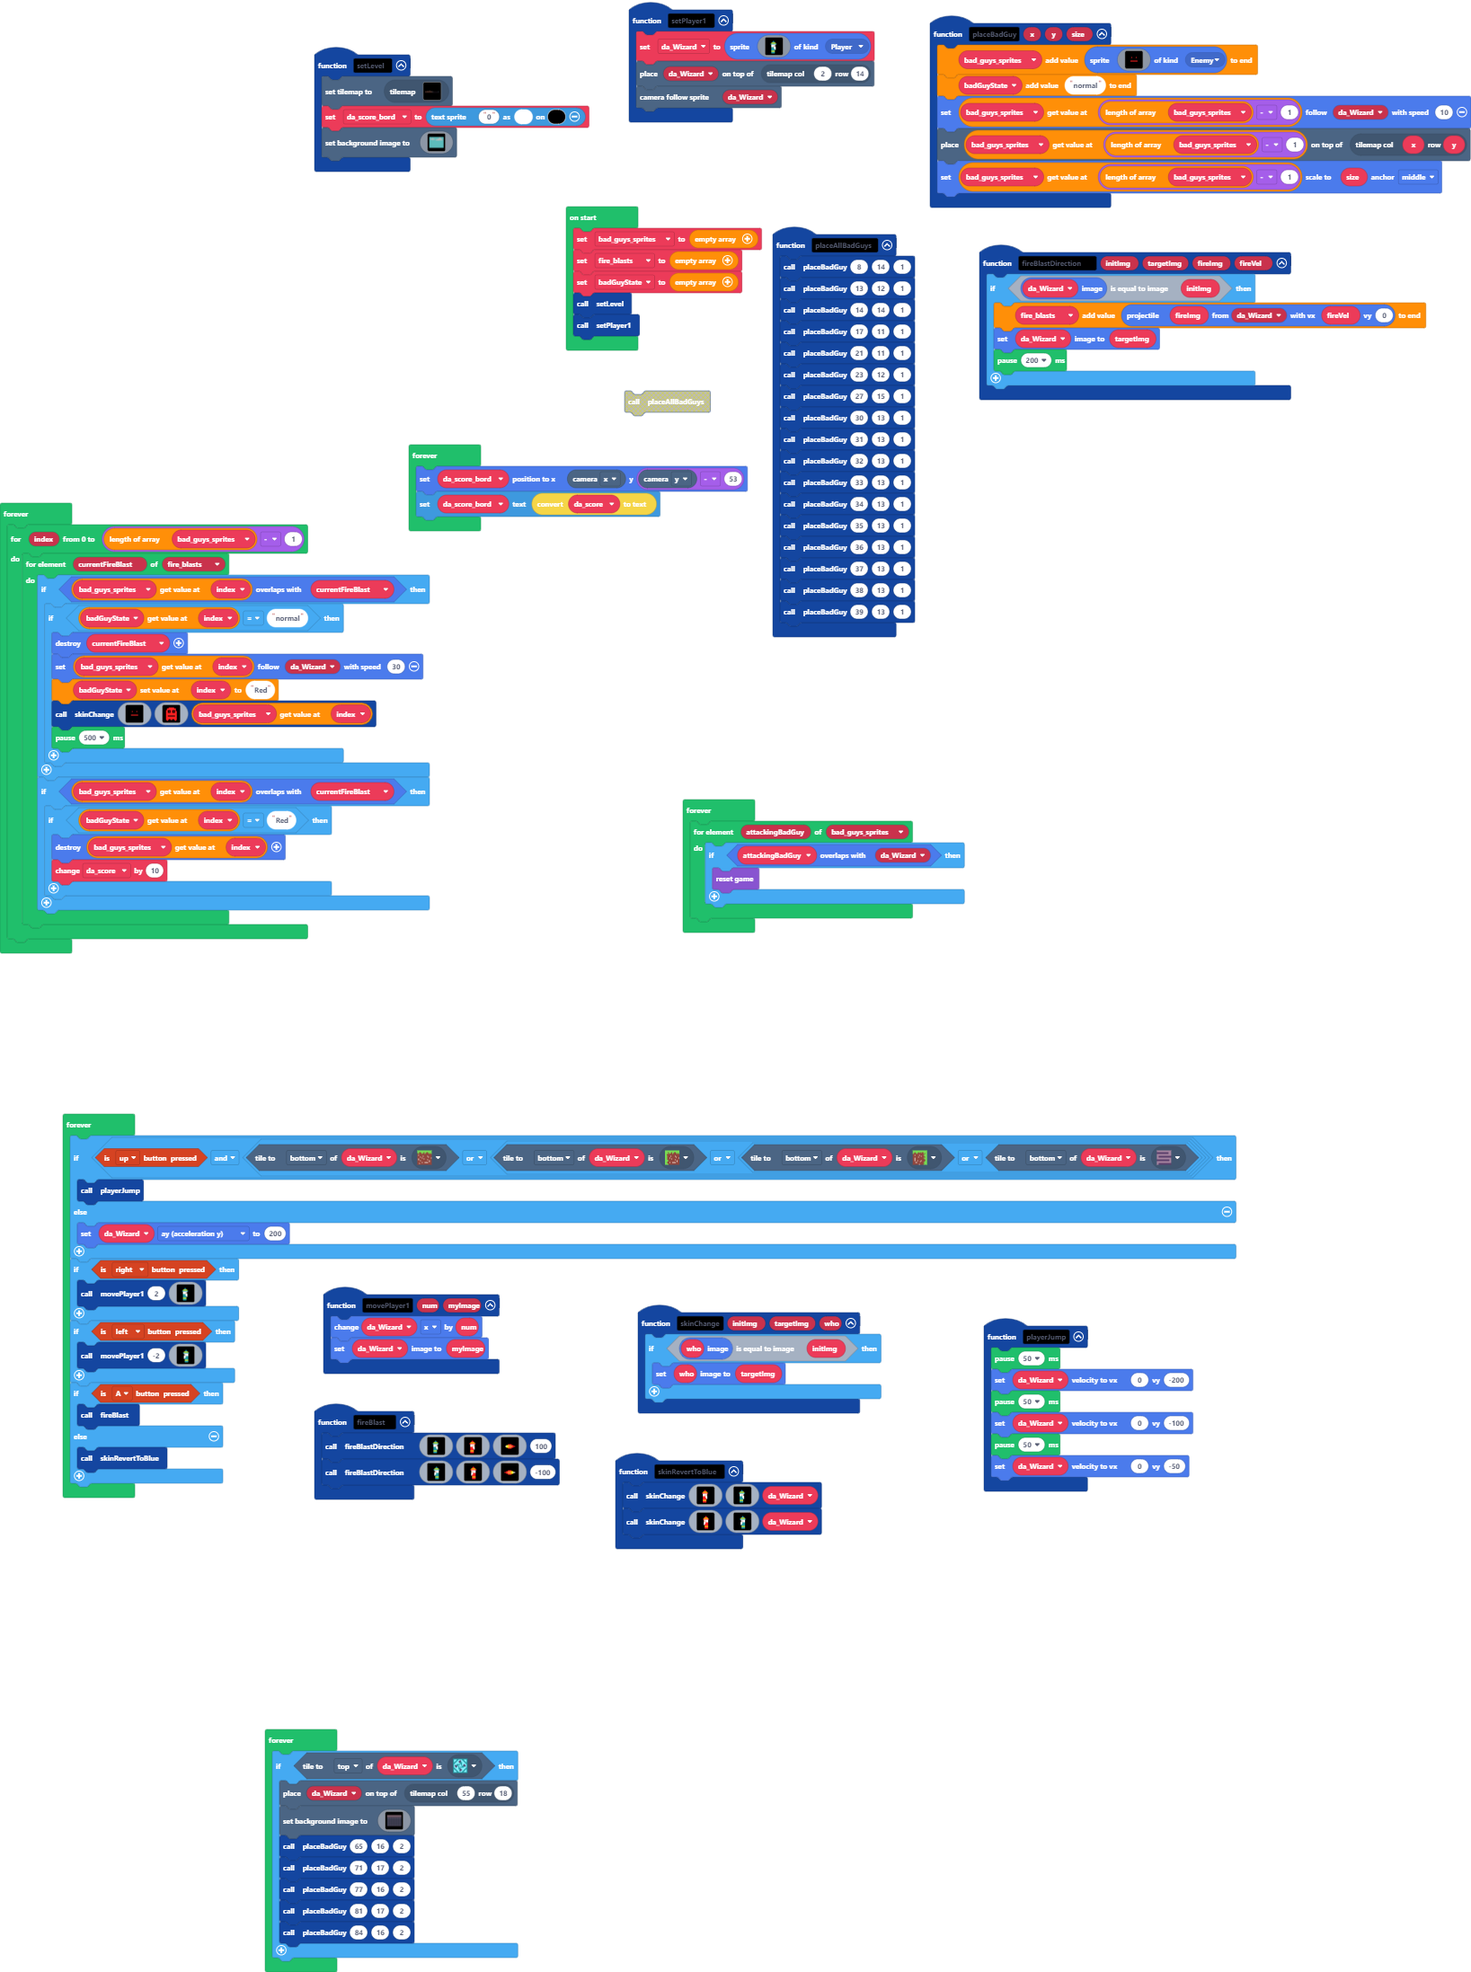
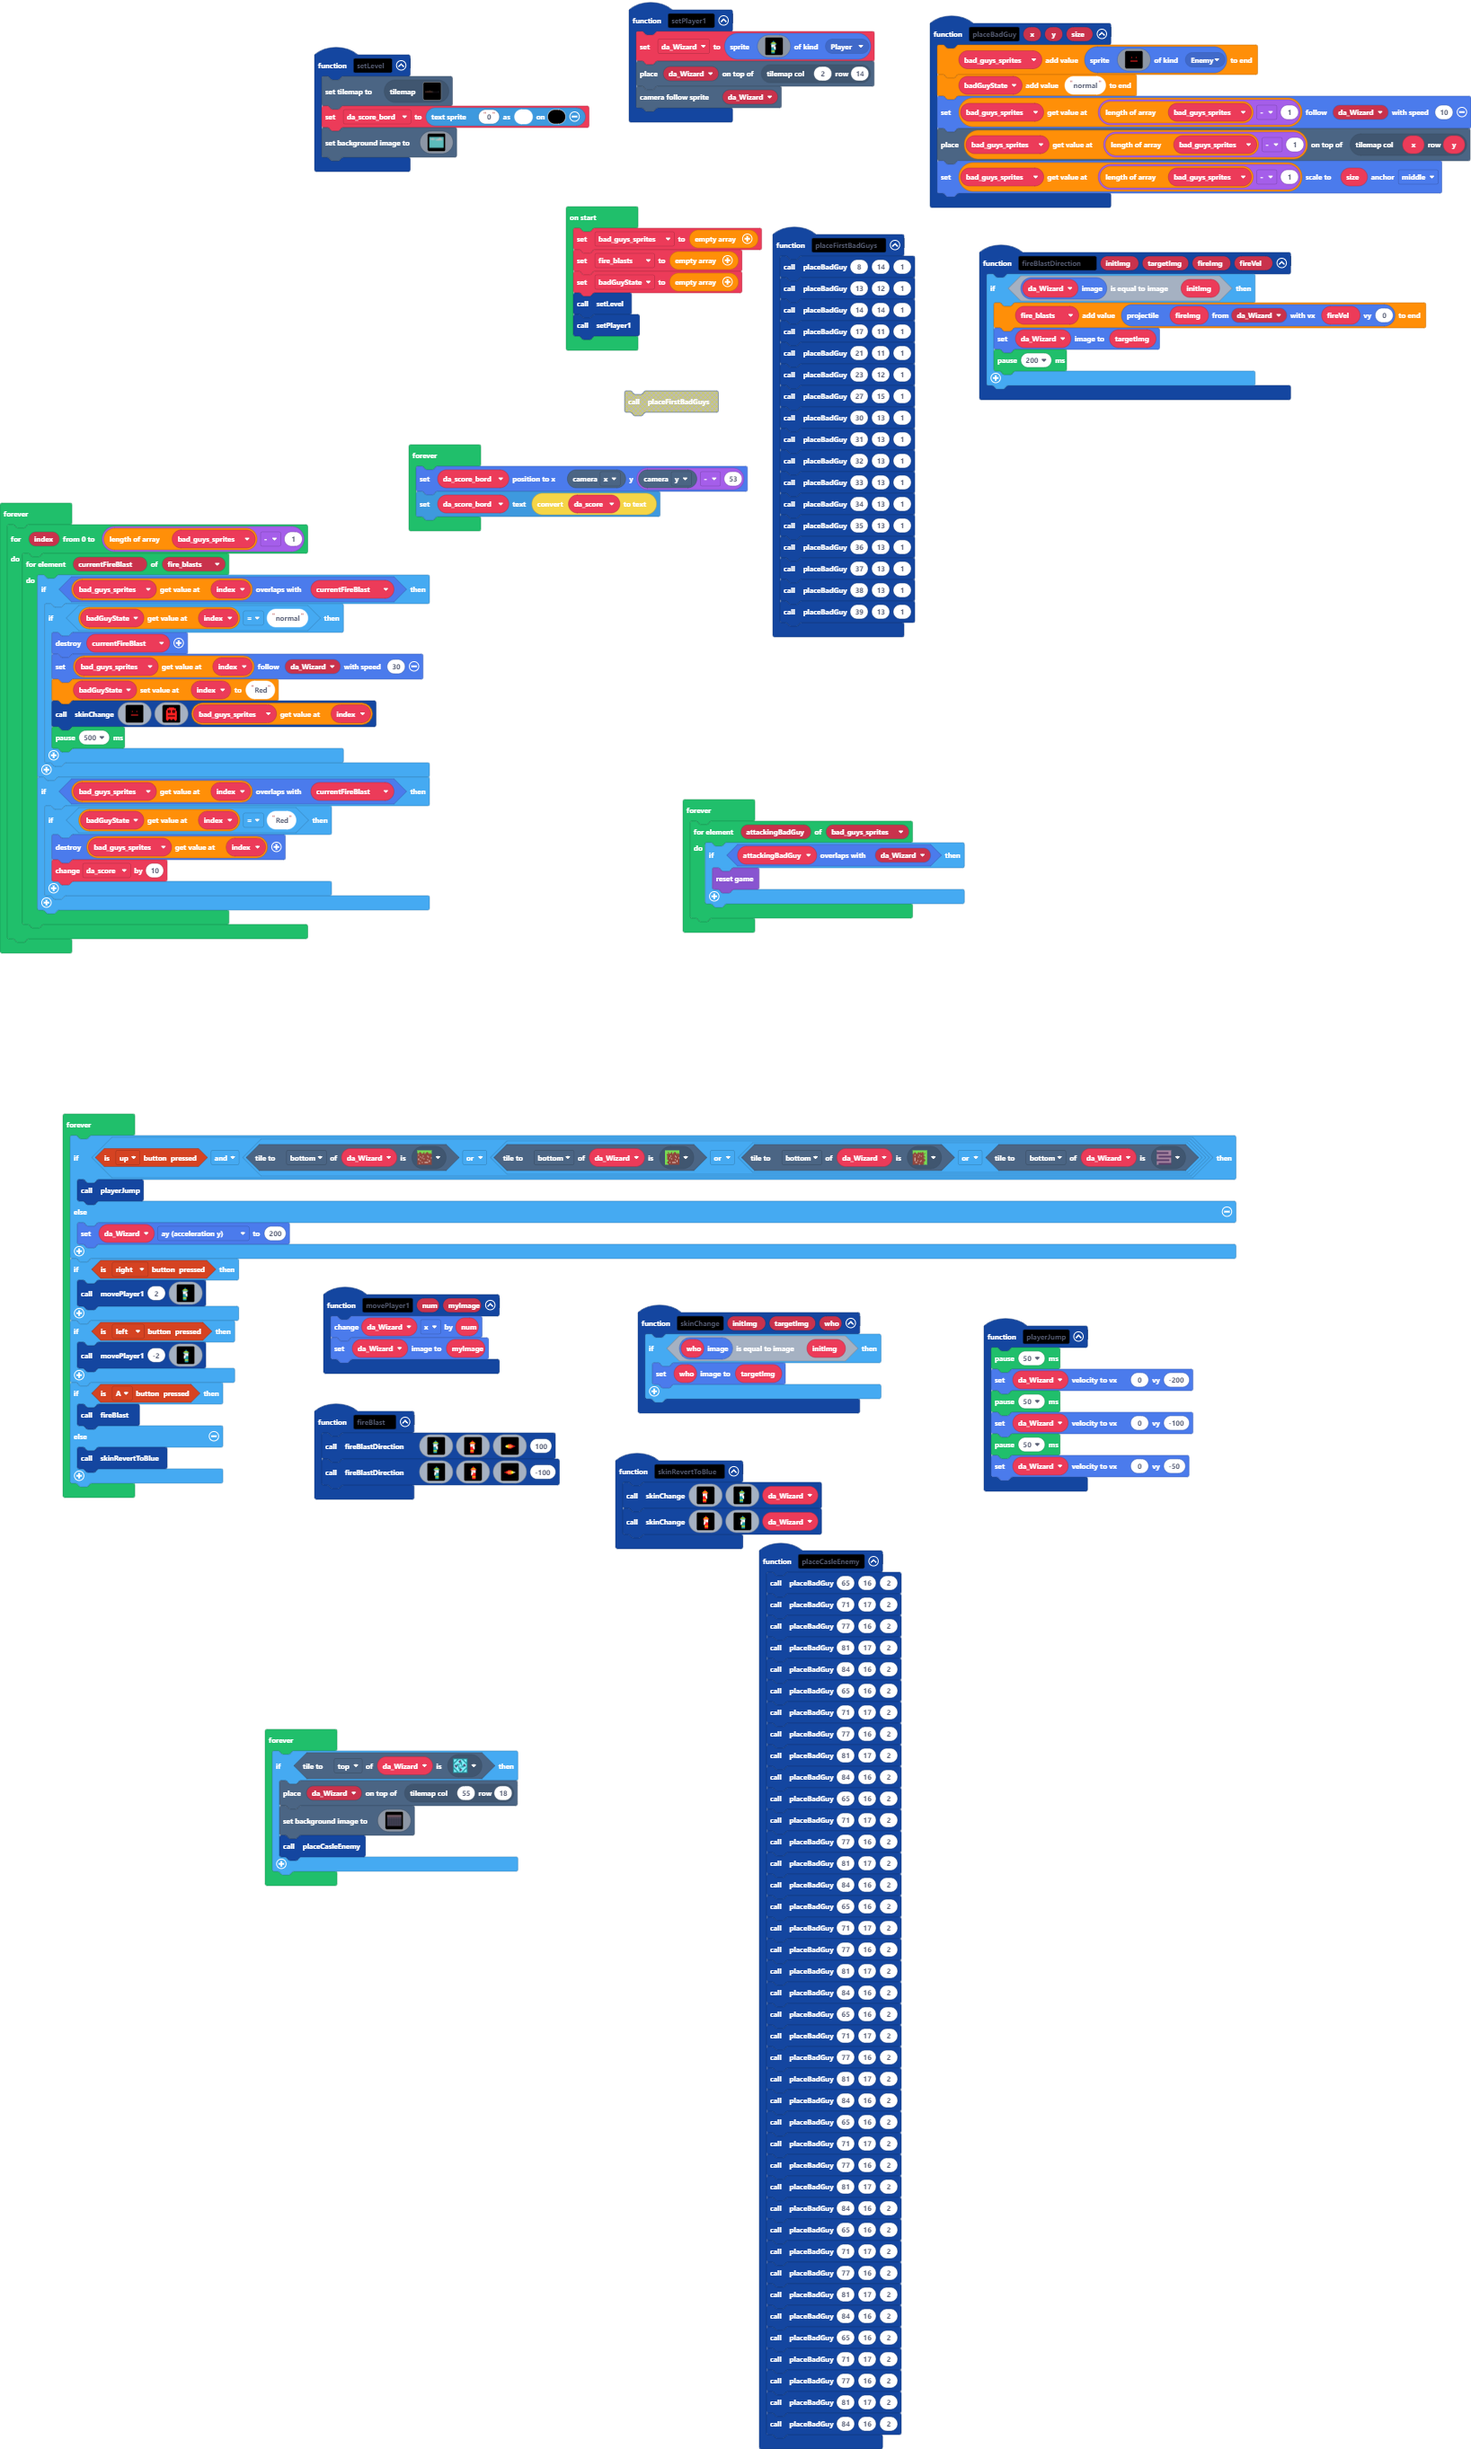
Update main.blocks, main.ts, tilemap.g.jres, tilemap.g.ts

diff --git a/tilemap.g.ts b/tilemap.g.ts
@@ -29,20 +29,20 @@ namespace myTiles {
         switch(helpers.stringTrim(name)) {
             case "level1":
[1 lines of base64/hex data omitted]
-....................................................................................................
-....................................................................................................
-....................................................................................................
-....................................................................................................
-....................................................................................................
-....................................................................................................
-....................................................................................................
-....................................................................................................
-....................................................................................................
-................................222.................................................................
-................................222.................................................................
-..............................22222.................................................................
-..................222.........22222.................................................................
-.................222222.............................................................................
+.............................................2......................................................
+.............................................2......................................................
+.............................................2......................................................
+.............................................2......................................................
+.............................................2......................................................
+.............................................2......................................................
+.............................................2......................................................
+.............................................2......................................................
+.............................................2......................................................
+................................222..........2......................................................
+................................222..........2......................................................
+..............................22222..........2......................................................
+..................222.........22222..........2......................................................
+.................222222......................2......................................................
 .....222........22222222......222222.........2......................................................
 ....2222.......222222222.....2222222................................................................
 22222222222222222222222222222222222222222222222222..................................................

diff --git a/main.ts b/main.ts
@@ -27,27 +27,7 @@ function setPlayer1 () {
     tiles.placeOnTile(da_Wizard, tiles.getTileLocation(2, 14))
     scene.cameraFollowSprite(da_Wizard)
 }
-function playerJump () {
-    pause(50)
-    da_Wizard.setVelocity(0, -200)
-    pause(50)
-    da_Wizard.setVelocity(0, -100)
-    pause(50)
-    da_Wizard.setVelocity(0, -50)
-}
-function movePlayer1 (num: number, myImage: Image) {
-    da_Wizard.x += num
-    da_Wizard.setImage(myImage)
-}
-function fireBlast () {
-    fireBlastDirection(assets.image`Da Wizard right`, assets.image`Da Wizard red right`, assets.image`fire blast right`, 100)
-    fireBlastDirection(assets.image`Da Wizard left`, assets.image`Da Wizard red left`, assets.image`fire blast left`, -100)
-}
-function skinRevertToBlue () {
-    skinChange(assets.image`Da Wizard red right`, assets.image`Da Wizard right`, da_Wizard)
-    skinChange(assets.image`Da Wizard red left`, assets.image`Da Wizard left`, da_Wizard)
-}
-function placeAllBadGuys () {
+function placeFirstBadGuys () {
     placeBadGuy(8, 14, 1)
     placeBadGuy(13, 12, 1)
     placeBadGuy(14, 14, 1)
@@ -65,6 +45,68 @@ function placeAllBadGuys () {
     placeBadGuy(37, 13, 1)
     placeBadGuy(38, 13, 1)
     placeBadGuy(39, 13, 1)
+}
+function playerJump () {
+    pause(50)
+    da_Wizard.setVelocity(0, -200)
+    pause(50)
+    da_Wizard.setVelocity(0, -100)
+    pause(50)
+    da_Wizard.setVelocity(0, -50)
+}
+function placeCasleEnemy () {
+    placeBadGuy(65, 16, 2)
+    placeBadGuy(71, 17, 2)
+    placeBadGuy(77, 16, 2)
+    placeBadGuy(81, 17, 2)
+    placeBadGuy(84, 16, 2)
+    placeBadGuy(65, 16, 2)
+    placeBadGuy(71, 17, 2)
+    placeBadGuy(77, 16, 2)
+    placeBadGuy(81, 17, 2)
+    placeBadGuy(84, 16, 2)
+    placeBadGuy(65, 16, 2)
+    placeBadGuy(71, 17, 2)
+    placeBadGuy(77, 16, 2)
+    placeBadGuy(81, 17, 2)
+    placeBadGuy(84, 16, 2)
+    placeBadGuy(65, 16, 2)
+    placeBadGuy(71, 17, 2)
+    placeBadGuy(77, 16, 2)
+    placeBadGuy(81, 17, 2)
+    placeBadGuy(84, 16, 2)
+    placeBadGuy(65, 16, 2)
+    placeBadGuy(71, 17, 2)
+    placeBadGuy(77, 16, 2)
+    placeBadGuy(81, 17, 2)
+    placeBadGuy(84, 16, 2)
+    placeBadGuy(65, 16, 2)
+    placeBadGuy(71, 17, 2)
+    placeBadGuy(77, 16, 2)
+    placeBadGuy(81, 17, 2)
+    placeBadGuy(84, 16, 2)
+    placeBadGuy(65, 16, 2)
+    placeBadGuy(71, 17, 2)
+    placeBadGuy(77, 16, 2)
+    placeBadGuy(81, 17, 2)
+    placeBadGuy(84, 16, 2)
+    placeBadGuy(65, 16, 2)
+    placeBadGuy(71, 17, 2)
+    placeBadGuy(77, 16, 2)
+    placeBadGuy(81, 17, 2)
+    placeBadGuy(84, 16, 2)
+}
+function movePlayer1 (num: number, myImage: Image) {
+    da_Wizard.x += num
+    da_Wizard.setImage(myImage)
+}
+function fireBlast () {
+    fireBlastDirection(assets.image`Da Wizard right`, assets.image`Da Wizard red right`, assets.image`fire blast right`, 100)
+    fireBlastDirection(assets.image`Da Wizard left`, assets.image`Da Wizard red left`, assets.image`fire blast left`, -100)
+}
+function skinRevertToBlue () {
+    skinChange(assets.image`Da Wizard red right`, assets.image`Da Wizard right`, da_Wizard)
+    skinChange(assets.image`Da Wizard red left`, assets.image`Da Wizard left`, da_Wizard)
 }
 let da_score = 0
 let da_Wizard: Sprite = null
@@ -131,10 +173,6 @@ forever(function () {
     if (da_Wizard.tileKindAt(TileDirection.Top, sprites.dungeon.collectibleInsignia)) {
         tiles.placeOnTile(da_Wizard, tiles.getTileLocation(55, 18))
         scene.setBackgroundImage(assets.image`castle`)
-        placeBadGuy(65, 16, 2)
-        placeBadGuy(71, 17, 2)
-        placeBadGuy(77, 16, 2)
-        placeBadGuy(81, 17, 2)
-        placeBadGuy(84, 16, 2)
+        placeCasleEnemy()
     }
 })
